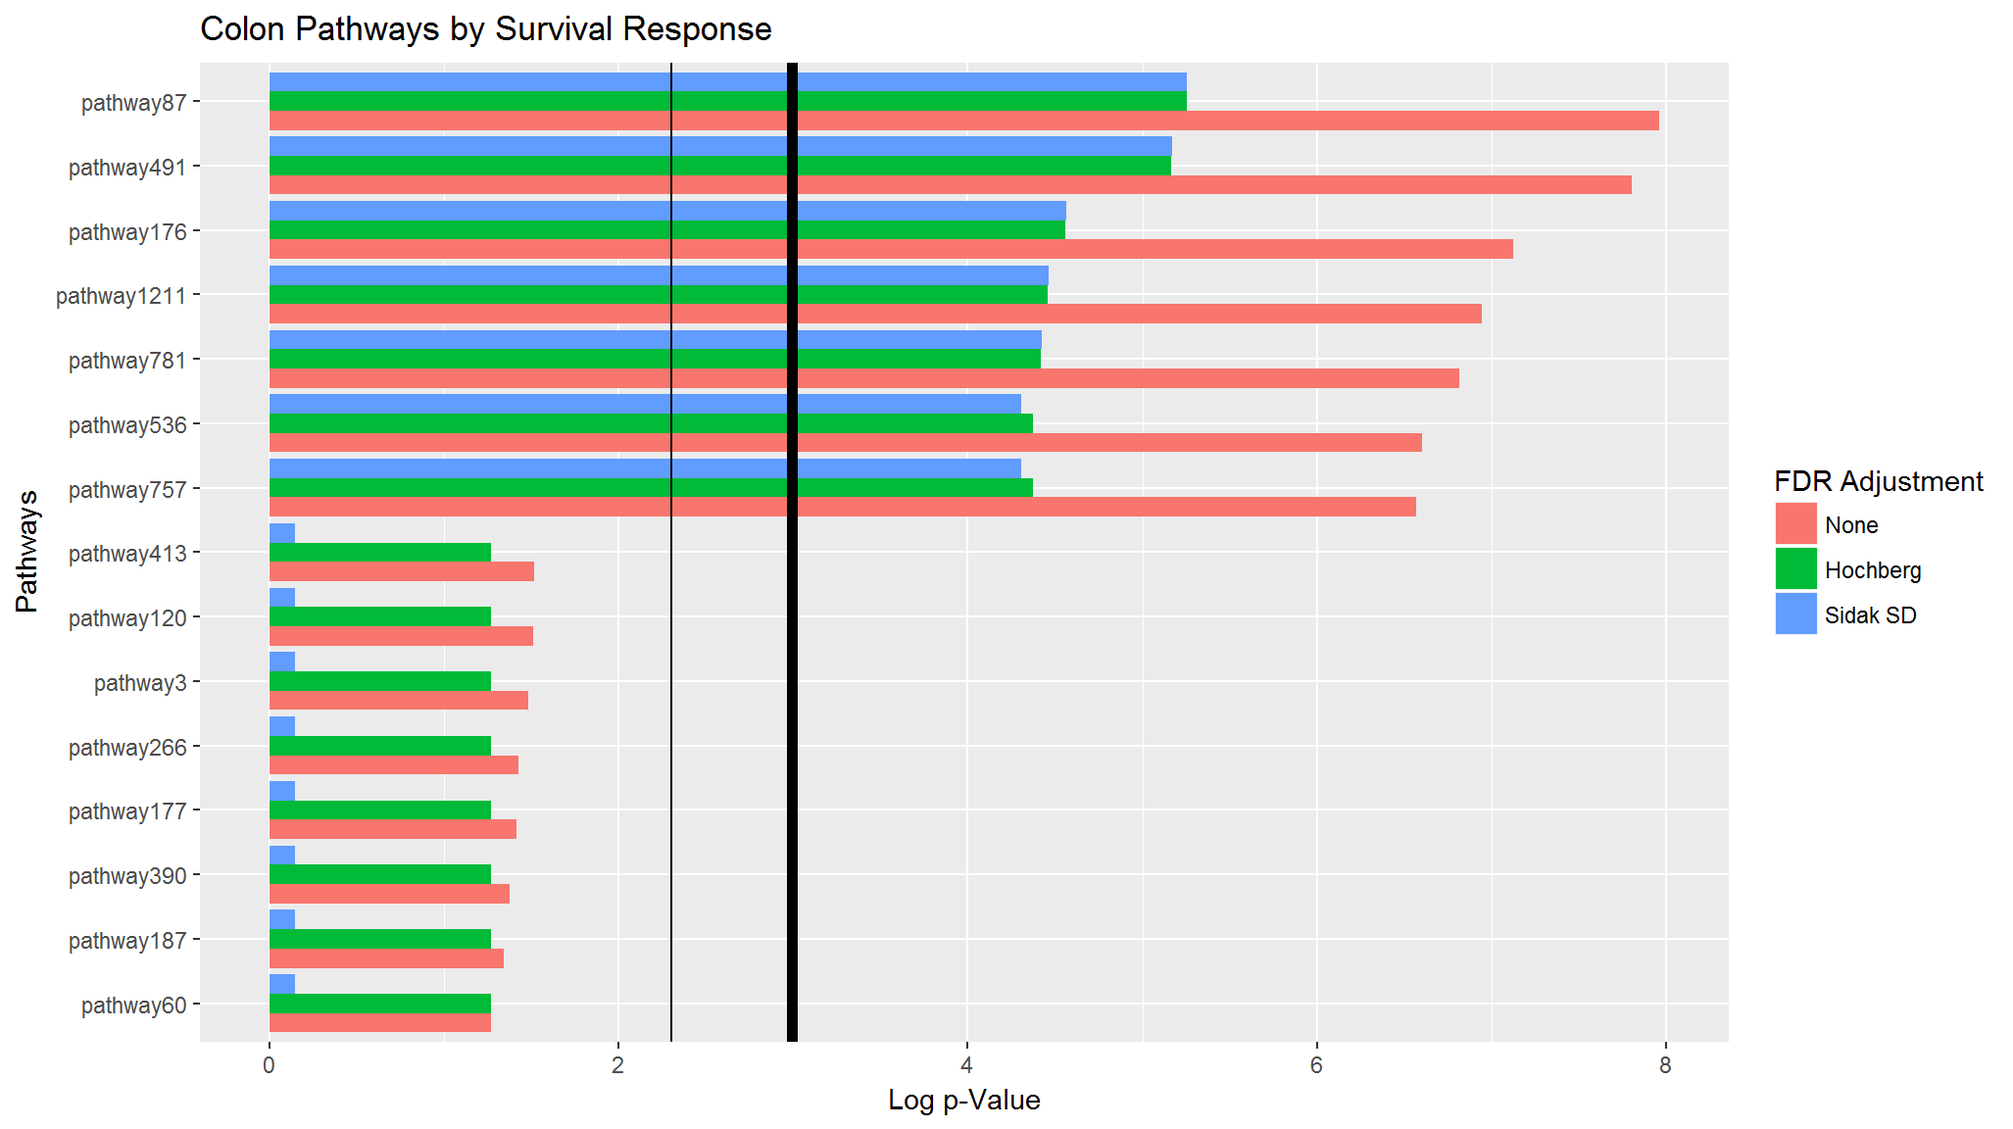
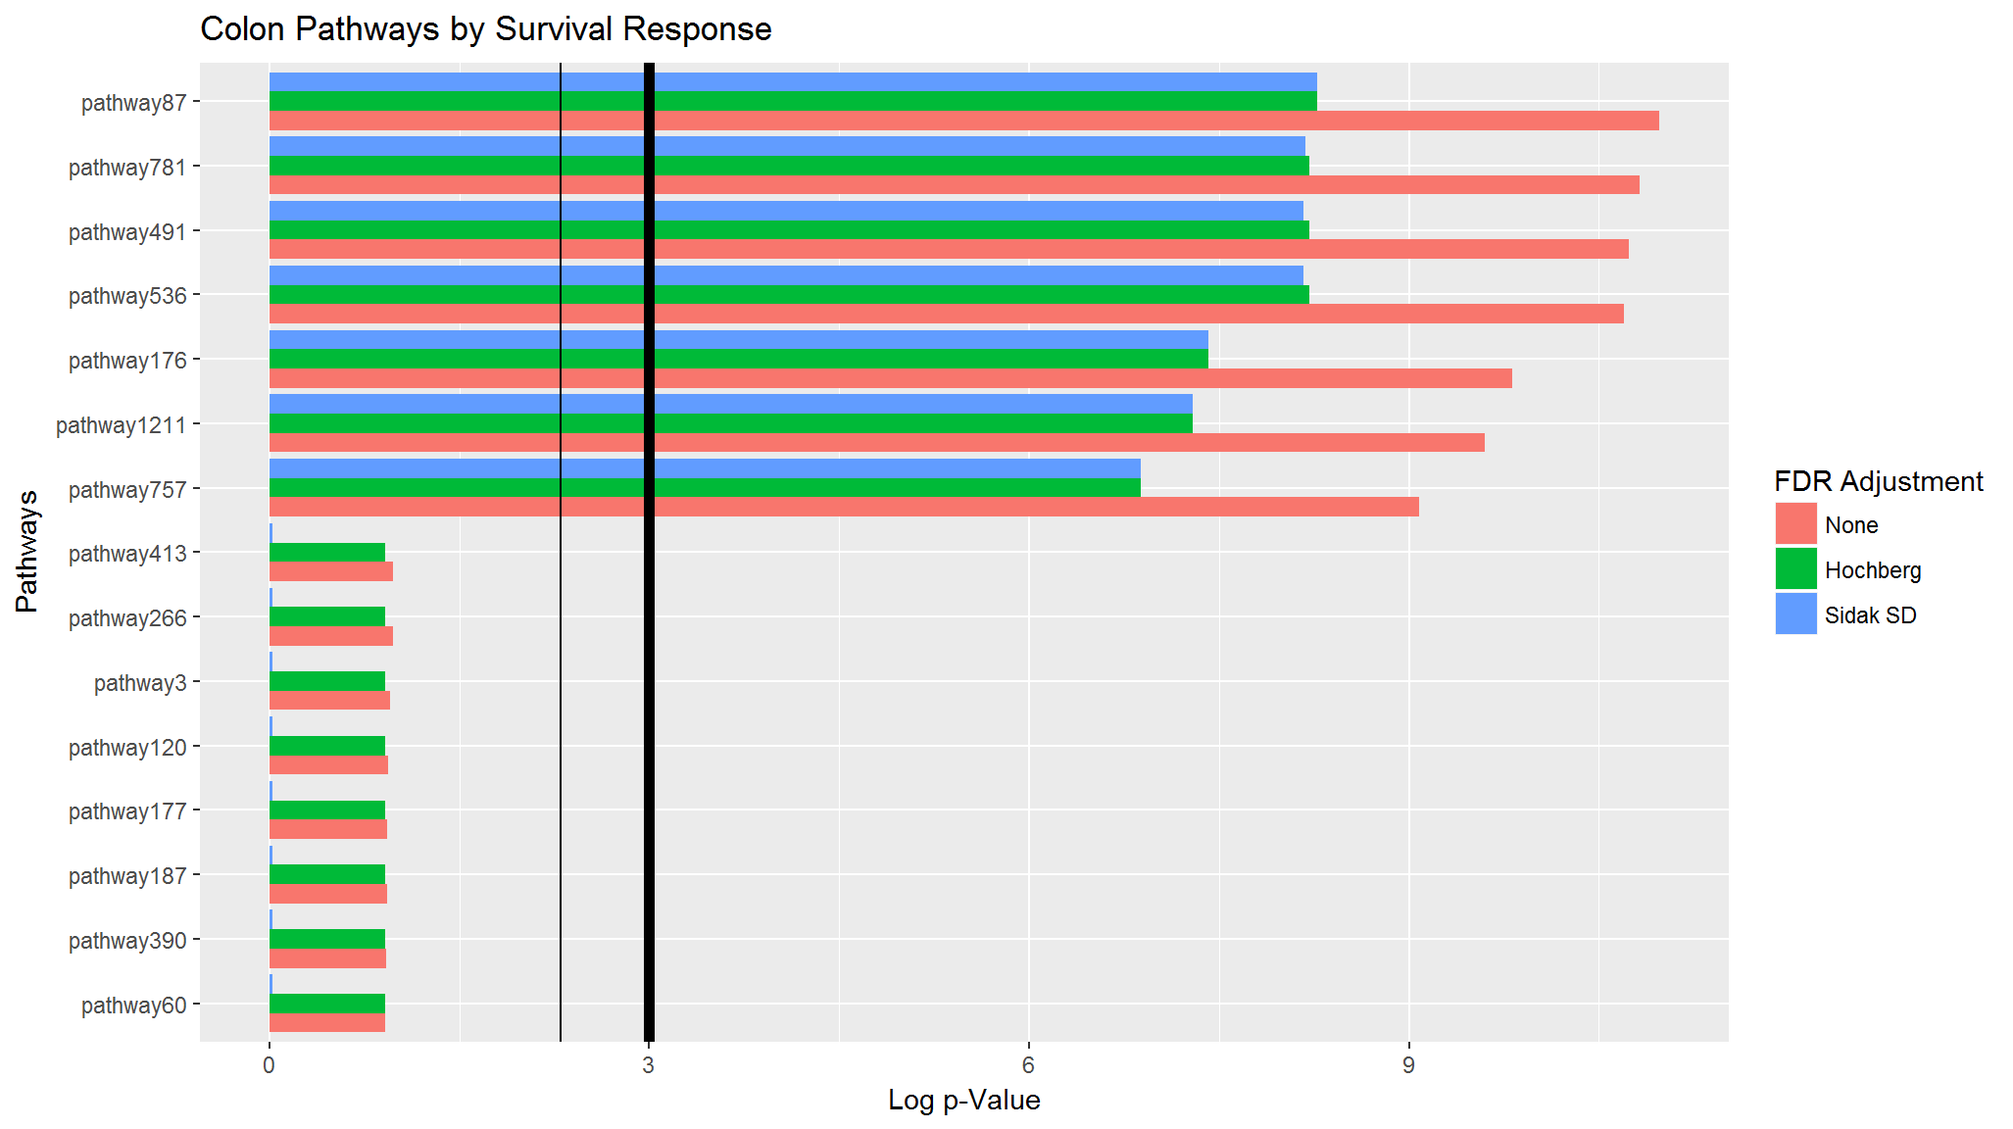
Updated vignette with new print calls. Updated .tavis.yml.

diff --git a/docs/articles/Supervised_PCA_Walkthrough.html b/docs/articles/Supervised_PCA_Walkthrough.html
@@ -102,7 +102,7 @@
 <h3 class="hasAnchor">
 <a href="#load-package" class="anchor"></a>Load Package</h3>
 <p>Before we begin, make sure you have the latest version of the package. In order to install a package from GitHub, you will need the <code>devtools::</code> package (<a href="https://github.com/r-lib/devtools" class="uri">https://github.com/r-lib/devtools</a>) and either <a href="https://cran.r-project.org/bin/windows/Rtools/">Rtools</a> (for Windows) or <a href="https://developer.apple.com/xcode/">Xcode</a> (for Mac). Then you can install the development version of the <a href="https://github.com/gabrielodom/pathwayPCA"><code>pathwayPCA</code> package</a> from <a href="https://github.com/">GitHub</a>:</p>
-<div class="sourceCode"><pre class="sourceCode r"><code class="sourceCode r">devtools<span class="op">::</span><span class="kw"><a href="http://www.rdocumentation.org/packages/devtools/topics/install_github">install_github</a></span>(<span class="st">"gabrielodom/pathwayPCA"</span>)</code></pre></div>
+<pre><code><a href="http://www.rdocumentation.org/packages/devtools/topics/install_github">devtools::install_github("gabrielodom/pathwayPCA")</a></code></pre>
 <div class="sourceCode"><pre class="sourceCode r"><code class="sourceCode r"><span class="kw">library</span>(pathwayPCA)
 <span class="kw">library</span>(parallel)</code></pre></div>
 </div>
@@ -223,7 +223,7 @@ cancers_df &lt;-<span class="st"> </span>colonSurv_df[, <span class="op">-</span
                                     <span class="dt">pathwaySet_ls =</span> geneset_ls,
                                     <span class="dt">eventTime_vec =</span> survTime_num,
                                     <span class="dt">eventObserved_vec =</span> dead_logi)
-<span class="kw">str</span>(colon_OmicsSurv, <span class="dt">max.level =</span> <span class="dv">2</span>)
+colon_OmicsSurv
 <span class="co">#&gt; Formal class 'OmicsSurv' [package "pathwayPCA"] with 4 slots</span>
 <span class="co">#&gt;   ..@ eventTime    : num [1:250] 64.9 59.8 62.4 54.5 46.3 ...</span>
 <span class="co">#&gt;   ..@ eventObserved: logi [1:250] FALSE FALSE FALSE FALSE TRUE FALSE ...</span>
@@ -239,7 +239,7 @@ cancers_df &lt;-<span class="st"> </span>colonSurv_df[, <span class="op">-</span
 <div class="sourceCode"><pre class="sourceCode r"><code class="sourceCode r">colon_OmicsReg &lt;-<span class="st"> </span><span class="kw"><a href="../reference/create_OmicsPathway.html">create_OmicsReg</a></span>(<span class="dt">assayData_df =</span> cancers_df,
                                   <span class="dt">pathwaySet_ls =</span> geneset_ls,
                                   <span class="dt">response_num =</span> survTime_num)
-<span class="kw">str</span>(colon_OmicsReg, <span class="dt">max.level =</span> <span class="dv">2</span>)
+colon_OmicsReg
 <span class="co">#&gt; Formal class 'OmicsReg' [package "pathwayPCA"] with 3 slots</span>
 <span class="co">#&gt;   ..@ response    : num [1:250] 64.9 59.8 62.4 54.5 46.3 ...</span>
 <span class="co">#&gt;   ..@ assayData_df:Classes 'tbl_df', 'tbl' and 'data.frame': 250 obs. of  656 variables:</span>
@@ -253,12 +253,22 @@ cancers_df &lt;-<span class="st"> </span>colonSurv_df[, <span class="op">-</span
 <div class="sourceCode"><pre class="sourceCode r"><code class="sourceCode r">colon_OmicsCateg &lt;-<span class="st"> </span><span class="kw"><a href="../reference/create_OmicsPathway.html">create_OmicsCateg</a></span>(<span class="dt">assayData_df =</span> cancers_df,
                                       <span class="dt">pathwaySet_ls =</span> geneset_ls,
                                       <span class="dt">response_fact =</span> dead_fact)
-<span class="kw">str</span>(colon_OmicsCateg, <span class="dt">max.level =</span> <span class="dv">2</span>)
+colon_OmicsCateg
 <span class="co">#&gt; Formal class 'OmicsCateg' [package "pathwayPCA"] with 3 slots</span>
 <span class="co">#&gt;   ..@ response    : Factor w/ 2 levels "0","1": 1 1 1 1 2 1 1 1 2 1 ...</span>
 <span class="co">#&gt;   ..@ assayData_df:Classes 'tbl_df', 'tbl' and 'data.frame': 250 obs. of  656 variables:</span>
 <span class="co">#&gt;   ..@ pathwaySet  :List of 3</span>
 <span class="co">#&gt;   .. ..- attr(*, "class")= chr [1:2] "pathwaySet" "list"</span></code></pre></div>
+</div>
+<div id="re-inspect-the-pathwayset-list" class="section level3">
+<h3 class="hasAnchor">
+<a href="#re-inspect-the-pathwayset-list" class="anchor"></a>Re-inspect the <code>pathwaySet</code> List</h3>
+<p>As we mentioned above, the gene set list (as a <code>pathwaySet</code> object, or a gene set list you’ve created yourself) will be modified upon <code>Omics*</code> object creation. Before, this list only had two elements, <code>pathways</code> and <code>TERMS</code>. Now, it has a third element: <code>setsize</code>—the number of genes contained in each pathway.</p>
+<div class="sourceCode"><pre class="sourceCode r"><code class="sourceCode r">colon_OmicsSurv<span class="op">@</span>pathwaySet
+<span class="co">#&gt; Object with Class(es) 'pathwaySet', 'list' [package 'pathwayPCA'] with 3 elements: </span>
+<span class="co">#&gt;  $ pathways:List of 15</span>
+<span class="co">#&gt;  $ TERMS   : Named chr [1:15] "KEGG_PENTOSE_PHOSPHATE_PATHWAY" ...</span>
+<span class="co">#&gt;  $ setsize : Named int [1:15] 27 64 ...</span></code></pre></div>
 </div>
 </div>
 <div id="clean-up-the-pathway-list" class="section level2">
@@ -315,7 +325,7 @@ surv_pVals_df &lt;-<span class="st"> </span><span class="kw"><a href="../referen
 <span class="co">#&gt; Adjusting p-Values and Sorting Pathway p-Value Data Frame</span>
 <span class="co">#&gt; DONE</span>
 <span class="kw">Sys.time</span>() <span class="op">-</span><span class="st"> </span>a
-<span class="co">#&gt; Time difference of 5.960549 secs</span></code></pre></div>
+<span class="co">#&gt; Time difference of 5.505751 secs</span></code></pre></div>
 </div>
 <div id="regression-response" class="section level3">
 <h3 class="hasAnchor">
@@ -343,7 +353,7 @@ reg_pVals_df &lt;-<span class="st"> </span><span class="kw"><a href="../referenc
 <span class="co">#&gt; Adjusting p-Values and Sorting Pathway p-Value Data Frame</span>
 <span class="co">#&gt; DONE</span>
 <span class="kw">Sys.time</span>() <span class="op">-</span><span class="st"> </span>b
-<span class="co">#&gt; Time difference of 4.958448 secs</span></code></pre></div>
+<span class="co">#&gt; Time difference of 5.042285 secs</span></code></pre></div>
 </div>
 <div id="binary-classification-response" class="section level3">
 <h3 class="hasAnchor">
@@ -371,7 +381,7 @@ categ_pVals_df &lt;-<span class="st"> </span><span class="kw"><a href="../refere
 <span class="co">#&gt; Adjusting p-Values and Sorting Pathway p-Value Data Frame</span>
 <span class="co">#&gt; DONE</span>
 <span class="kw">Sys.time</span>() <span class="op">-</span><span class="st"> </span>d
-<span class="co">#&gt; Time difference of 7.712474 secs</span></code></pre></div>
+<span class="co">#&gt; Time difference of 7.371436 secs</span></code></pre></div>
 </div>
 </div>
 <div id="subset-the-top-pathways" class="section level2">
@@ -485,22 +495,22 @@ S_j := - \frac{1}{A}\sum\limits_{a = 1}^A \log(p_{aj}).
 <p>Now consider the rows of this matrix. Each row is a gene, and the <span class="math inline">\(j^{th}\)</span> entry in the row is equal to <span class="math inline">\(S_j\)</span>, if the gene is included in pathway <span class="math inline">\(j\)</span>, and 0 otherwise. These genes can be compared by the raw row sum of scores, or by the average of the non-zero scores. The <code><a href="../reference/topGenes.html">topGenes()</a></code> function returns the top 5% of both. As we can see, most of the genes included in the <code>summedRank</code> vector are the in the list of “usual suspects” for colon cancer.</p>
 <div class="sourceCode"><pre class="sourceCode r"><code class="sourceCode r"><span class="kw"><a href="../reference/topGenes.html">topGenes</a></span>(<span class="dt">object =</span> colon_OmicsSurv, <span class="dt">pVals_df =</span> surv_pVals_df, <span class="dt">percentile =</span> <span class="fl">0.02</span>)
 <span class="co">#&gt; $summedRank</span>
-<span class="co">#&gt;   PIK3CA   PIK3R1    MAPK1   MAP2K1     NRAS     GRB2    MAPK3     HRAS </span>
-<span class="co">#&gt; 28.20714 28.20714 24.34454 23.78567 23.78567 23.78567 23.78567 23.78567 </span>
-<span class="co">#&gt;     KRAS   PIK3CB   PIK3R2     SHC1      CRK </span>
-<span class="co">#&gt; 23.78567 23.03869 23.03869 19.22602 19.22602 </span>
+<span class="co">#&gt;   PIK3CA   PIK3R1    MAPK1   PIK3CB   PIK3R2   MAP2K1     NRAS     GRB2 </span>
+<span class="co">#&gt; 46.25637 46.25637 38.43132 38.06480 38.06480 38.05810 38.05810 38.05810 </span>
+<span class="co">#&gt;    MAPK3     HRAS     KRAS     SHC1      CRK </span>
+<span class="co">#&gt; 38.05810 38.05810 38.05810 30.64169 30.64169 </span>
 <span class="co">#&gt; </span>
 <span class="co">#&gt; $averagedRank</span>
 <span class="co">#&gt;     PAK3      BTC     ELK1     NRG1     PAK4     NRG3    MAPK9    ERBB4 </span>
-<span class="co">#&gt; 5.256707 5.256707 5.256707 5.256707 5.256707 5.256707 5.256707 5.256707 </span>
+<span class="co">#&gt; 8.272449 8.272449 8.272449 8.272449 8.272449 8.272449 8.272449 8.272449 </span>
 <span class="co">#&gt;   MAPK10    ERBB3     ABL1     NRG2     ABL2     SHC4  RPS6KB2     AREG </span>
-<span class="co">#&gt; 5.256707 5.256707 5.256707 5.256707 5.256707 5.256707 5.256707 5.256707 </span>
+<span class="co">#&gt; 8.272449 8.272449 8.272449 8.272449 8.272449 8.272449 8.272449 8.272449 </span>
 <span class="co">#&gt;   STAT5B   STAT5A     PAK6      MYC     NRG4    GSK3B     CBLB      CBL </span>
-<span class="co">#&gt; 5.256707 5.256707 5.256707 5.256707 5.256707 5.256707 5.256707 5.256707 </span>
+<span class="co">#&gt; 8.272449 8.272449 8.272449 8.272449 8.272449 8.272449 8.272449 8.272449 </span>
 <span class="co">#&gt;   CDKN1B   CDKN1A     EREG     NCK2   CAMK2A   CAMK2B   CAMK2D   CAMK2G </span>
-<span class="co">#&gt; 5.256707 5.256707 5.256707 5.256707 5.256707 5.256707 5.256707 5.256707 </span>
+<span class="co">#&gt; 8.272449 8.272449 8.272449 8.272449 8.272449 8.272449 8.272449 8.272449 </span>
 <span class="co">#&gt;     CBLC     CRKL    HBEGF </span>
-<span class="co">#&gt; 5.256707 5.256707 5.256707</span></code></pre></div>
+<span class="co">#&gt; 8.272449 8.272449 8.272449</span></code></pre></div>
 </div>
   </div>
 

diff --git a/docs/articles/AES-PCA_Walkthrough.html b/docs/articles/AES-PCA_Walkthrough.html
@@ -102,7 +102,7 @@
 <h3 class="hasAnchor">
 <a href="#load-package" class="anchor"></a>Load Package</h3>
 <p>Before we begin, make sure you have the latest version of the package. In order to install a package from GitHub, you will need the <code>devtools::</code> package (<a href="https://github.com/r-lib/devtools" class="uri">https://github.com/r-lib/devtools</a>) and either <a href="https://cran.r-project.org/bin/windows/Rtools/">Rtools</a> (for Windows) or <a href="https://developer.apple.com/xcode/">Xcode</a> (for Mac). Then you can install the development version of the <a href="https://github.com/gabrielodom/pathwayPCA"><code>pathwayPCA</code> package</a> from <a href="https://github.com/">GitHub</a>:</p>
-<div class="sourceCode"><pre class="sourceCode r"><code class="sourceCode r">devtools<span class="op">::</span><span class="kw"><a href="http://www.rdocumentation.org/packages/devtools/topics/install_github">install_github</a></span>(<span class="st">"gabrielodom/pathwayPCA"</span>)</code></pre></div>
+<pre><code><a href="http://www.rdocumentation.org/packages/devtools/topics/install_github">devtools::install_github("gabrielodom/pathwayPCA")</a></code></pre>
 <div class="sourceCode"><pre class="sourceCode r"><code class="sourceCode r"><span class="kw">library</span>(pathwayPCA)
 <span class="kw">library</span>(parallel)</code></pre></div>
 </div>
@@ -223,7 +223,7 @@ cancers_df &lt;-<span class="st"> </span>colonSurv_df[, <span class="op">-</span
                                     <span class="dt">pathwaySet_ls =</span> geneset_ls,
                                     <span class="dt">eventTime_vec =</span> survTime_num,
                                     <span class="dt">eventObserved_vec =</span> dead_logi)
-<span class="kw">str</span>(colon_OmicsSurv, <span class="dt">max.level =</span> <span class="dv">2</span>)
+colon_OmicsSurv
 <span class="co">#&gt; Formal class 'OmicsSurv' [package "pathwayPCA"] with 4 slots</span>
 <span class="co">#&gt;   ..@ eventTime    : num [1:250] 64.9 59.8 62.4 54.5 46.3 ...</span>
 <span class="co">#&gt;   ..@ eventObserved: logi [1:250] FALSE FALSE FALSE FALSE TRUE FALSE ...</span>
@@ -239,7 +239,7 @@ cancers_df &lt;-<span class="st"> </span>colonSurv_df[, <span class="op">-</span
 <div class="sourceCode"><pre class="sourceCode r"><code class="sourceCode r">colon_OmicsReg &lt;-<span class="st"> </span><span class="kw"><a href="../reference/create_OmicsPathway.html">create_OmicsReg</a></span>(<span class="dt">assayData_df =</span> cancers_df,
                                   <span class="dt">pathwaySet_ls =</span> geneset_ls,
                                   <span class="dt">response_num =</span> survTime_num)
-<span class="kw">str</span>(colon_OmicsReg, <span class="dt">max.level =</span> <span class="dv">2</span>)
+colon_OmicsReg
 <span class="co">#&gt; Formal class 'OmicsReg' [package "pathwayPCA"] with 3 slots</span>
 <span class="co">#&gt;   ..@ response    : num [1:250] 64.9 59.8 62.4 54.5 46.3 ...</span>
 <span class="co">#&gt;   ..@ assayData_df:Classes 'tbl_df', 'tbl' and 'data.frame': 250 obs. of  656 variables:</span>
@@ -253,12 +253,22 @@ cancers_df &lt;-<span class="st"> </span>colonSurv_df[, <span class="op">-</span
 <div class="sourceCode"><pre class="sourceCode r"><code class="sourceCode r">colon_OmicsCateg &lt;-<span class="st"> </span><span class="kw"><a href="../reference/create_OmicsPathway.html">create_OmicsCateg</a></span>(<span class="dt">assayData_df =</span> cancers_df,
                                       <span class="dt">pathwaySet_ls =</span> geneset_ls,
                                       <span class="dt">response_fact =</span> dead_fact)
-<span class="kw">str</span>(colon_OmicsCateg, <span class="dt">max.level =</span> <span class="dv">2</span>)
+colon_OmicsCateg
 <span class="co">#&gt; Formal class 'OmicsCateg' [package "pathwayPCA"] with 3 slots</span>
 <span class="co">#&gt;   ..@ response    : Factor w/ 2 levels "0","1": 1 1 1 1 2 1 1 1 2 1 ...</span>
 <span class="co">#&gt;   ..@ assayData_df:Classes 'tbl_df', 'tbl' and 'data.frame': 250 obs. of  656 variables:</span>
 <span class="co">#&gt;   ..@ pathwaySet  :List of 3</span>
 <span class="co">#&gt;   .. ..- attr(*, "class")= chr [1:2] "pathwaySet" "list"</span></code></pre></div>
+</div>
+<div id="re-inspect-the-pathwayset-list" class="section level3">
+<h3 class="hasAnchor">
+<a href="#re-inspect-the-pathwayset-list" class="anchor"></a>Re-inspect the <code>pathwaySet</code> List</h3>
+<p>As we mentioned above, the gene set list (as a <code>pathwaySet</code> object, or a gene set list you’ve created yourself) will be modified upon <code>Omics*</code> object creation. Before, this list only had two elements, <code>pathways</code> and <code>TERMS</code>. Now, it has a third element: <code>setsize</code>—the number of genes contained in each pathway.</p>
+<div class="sourceCode"><pre class="sourceCode r"><code class="sourceCode r">colon_OmicsSurv<span class="op">@</span>pathwaySet
+<span class="co">#&gt; Object with Class(es) 'pathwaySet', 'list' [package 'pathwayPCA'] with 3 elements: </span>
+<span class="co">#&gt;  $ pathways:List of 15</span>
+<span class="co">#&gt;  $ TERMS   : Named chr [1:15] "KEGG_PENTOSE_PHOSPHATE_PATHWAY" ...</span>
+<span class="co">#&gt;  $ setsize : Named int [1:15] 27 64 ...</span></code></pre></div>
 </div>
 </div>
 <div id="clean-up-the-pathway-list" class="section level2">
@@ -312,7 +322,7 @@ surv_pVals_df &lt;-<span class="st"> </span><span class="kw"><a href="../referen
 <span class="co">#&gt;  Part 3: Adjusting p-Values and Sorting Pathway p-Value Data Frame</span>
 <span class="co">#&gt; DONE</span>
 <span class="kw">Sys.time</span>() <span class="op">-</span><span class="st"> </span>a
-<span class="co">#&gt; Time difference of 26.80445 secs</span></code></pre></div>
+<span class="co">#&gt; Time difference of 27.73497 secs</span></code></pre></div>
 </div>
 <div id="regression-response" class="section level3">
 <h3 class="hasAnchor">
@@ -346,7 +356,7 @@ reg_pVals_df &lt;-<span class="st"> </span><span class="kw"><a href="../referenc
 <span class="co">#&gt;  Part 3: Adjusting p-Values and Sorting Pathway p-Value Data Frame</span>
 <span class="co">#&gt; DONE</span>
 <span class="kw">Sys.time</span>() <span class="op">-</span><span class="st"> </span>b
-<span class="co">#&gt; Time difference of 15.59313 secs</span></code></pre></div>
+<span class="co">#&gt; Time difference of 15.7707 secs</span></code></pre></div>
 </div>
 <div id="binary-classification-response" class="section level3">
 <h3 class="hasAnchor">
@@ -380,7 +390,7 @@ categ_pVals_df &lt;-<span class="st"> </span><span class="kw"><a href="../refere
 <span class="co">#&gt;  Part 3: Adjusting p-Values and Sorting Pathway p-Value Data Frame</span>
 <span class="co">#&gt; DONE</span>
 <span class="kw">Sys.time</span>() <span class="op">-</span><span class="st"> </span>d
-<span class="co">#&gt; Time difference of 25.7573 secs</span></code></pre></div>
+<span class="co">#&gt; Time difference of 25.0883 secs</span></code></pre></div>
 </div>
 </div>
 <div id="subset-the-top-pathways" class="section level2">
@@ -495,17 +505,23 @@ S_j := - \frac{1}{A}\sum\limits_{a = 1}^A \log(p_{aj}).
 <div class="sourceCode"><pre class="sourceCode r"><code class="sourceCode r"><span class="kw"><a href="../reference/topGenes.html">topGenes</a></span>(<span class="dt">object =</span> colon_OmicsSurv, <span class="dt">pVals_df =</span> surv_pVals_df, <span class="dt">percentile =</span> <span class="fl">0.02</span>)
 <span class="co">#&gt; $summedRank</span>
 <span class="co">#&gt;   PIK3CA   PIK3R1    MAPK1   MAP2K1     NRAS     GRB2    MAPK3     HRAS </span>
-<span class="co">#&gt; 22.27703 22.27703 18.01441 17.97822 17.97822 17.97822 17.97822 17.97822 </span>
+<span class="co">#&gt; 27.60967 27.60967 23.82741 23.79341 23.79341 23.79341 23.79341 23.79341 </span>
 <span class="co">#&gt;     KRAS     SHC1      CRK   PIK3CB   PIK3R2 </span>
-<span class="co">#&gt; 17.97822 17.94203 17.94203 13.32906 13.32906 </span>
+<span class="co">#&gt; 23.79341 23.75941 23.75941 18.57615 18.57615 </span>
 <span class="co">#&gt; </span>
 <span class="co">#&gt; $averagedRank</span>
 <span class="co">#&gt;    EPHB4    EFNA5      PXN    CDC42    EFNB3     RRAS     GRB7    EPHB3 </span>
-<span class="co">#&gt; 8.947976 8.947976 8.947976 8.947976 8.947976 8.947976 8.947976 8.947976 </span>
-<span class="co">#&gt;    EFNB1     DNM1    GRIA1    EPHB1    ROCK1    ITSN1    RAP1A     RAC1 </span>
-<span class="co">#&gt; 8.947976 8.947976 8.947976 8.947976 8.947976 8.947976 8.947976 8.947976 </span>
-<span class="co">#&gt;    RAP1B    EFNB2     WASL       TF    KALRN    RASA1 </span>
-<span class="co">#&gt; 8.947976 8.947976 8.947976 8.947976 8.947976 8.947976</span></code></pre></div>
+<span class="co">#&gt; 9.033516 9.033516 9.033516 9.033516 9.033516 9.033516 9.033516 9.033516 </span>
+<span class="co">#&gt;    EFNB1     DNM1   MAP4K4    GRIA1    EPHB1    ROCK1    ITSN1    RAP1A </span>
+<span class="co">#&gt; 9.033516 9.033516 9.033516 9.033516 9.033516 9.033516 9.033516 9.033516 </span>
+<span class="co">#&gt;     RAC1    RAP1B    EFNB2     WASL       TF    KALRN    RASA1   MAP4K5 </span>
+<span class="co">#&gt; 9.033516 9.033516 9.033516 9.033516 9.033516 9.033516 9.033516 9.033516 </span>
+<span class="co">#&gt;    TRAF1     RFFL    STAT1    NSMAF   MAP3K5     TAB2    PRKCZ  TNFAIP3 </span>
+<span class="co">#&gt; 9.033516 9.033516 9.033516 9.033516 9.033516 9.033516 9.033516 9.033516 </span>
+<span class="co">#&gt;     CAV1   MAP3K3    PRKCI    BIRC3      TXN   SQSTM1   MAP4K3   MAP4K2 </span>
+<span class="co">#&gt; 9.033516 9.033516 9.033516 9.033516 9.033516 9.033516 9.033516 9.033516 </span>
+<span class="co">#&gt;     TAB1     TNIK      NRK   ADAM17     CYLD    BIRC2 </span>
+<span class="co">#&gt; 9.033516 9.033516 9.033516 9.033516 9.033516 9.033516</span></code></pre></div>
 </div>
   </div>
 
